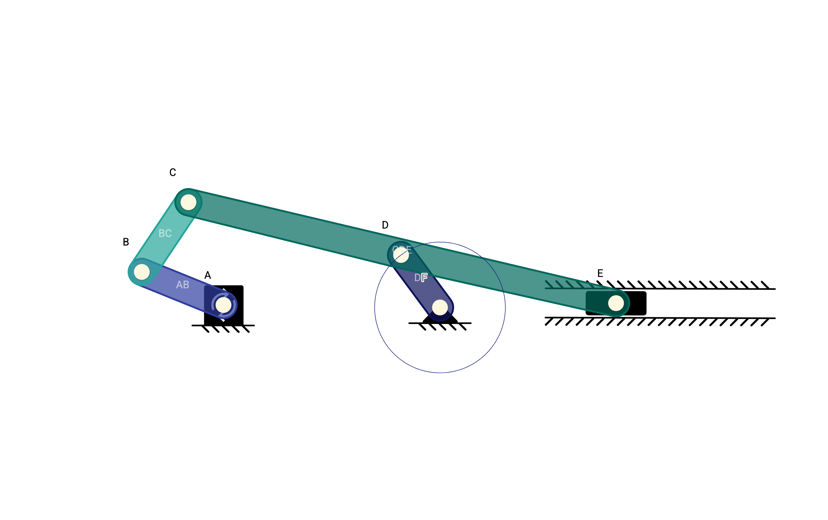
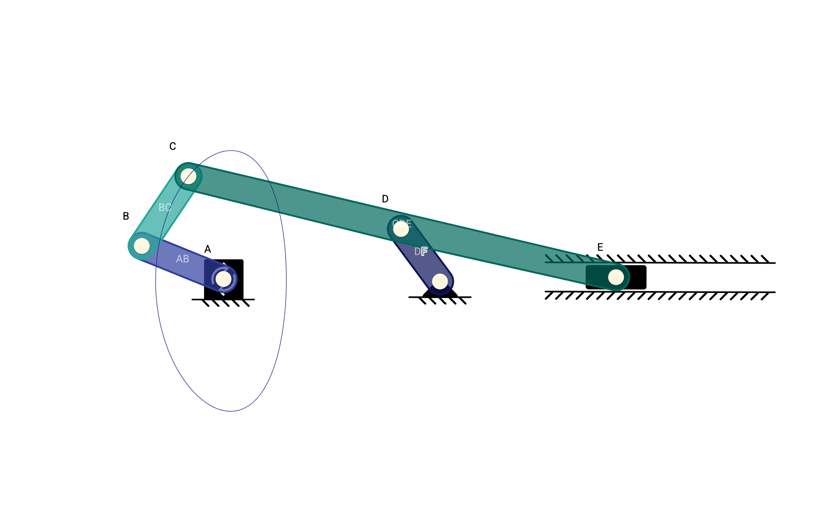
Trace the Elliptical Crank at its coupler point, gray a disabled toggle block, and let a missing Pillow skip the contact sheet
The Elliptical Crank card traced D, a rocker pin that draws a circle about
F; the ellipse the mechanism is named for is C, the coupler's own point.
The fixture's trace flag moves, and the payload, the fixture URLs and the
card art are regenerated from it.

A toggle block told it is disabled looked live: its switch's own disabled
input loses to the reactive form directive driving it. The block grays its
label and switch itself now, and the switch takes no pointer, so "Draw as a
Disc" on a coupler reads as the refusal it is and its reason is what a hover
reaches.

contactSheet threw when no python had Pillow, which failed two suites after
every check passed; it says the sheet was skipped instead. link-holds and
edit-playback carried expectations from before the analysis modes took a
drag and are brought up to date.

Changed region(s): [[0.151, 0.2769, 0.936, 0.6462], [0.2717, 0.7692, 0.3019, 0.8]]

diff --git a/src/app/component/MODALS/templates/template-linkages.ts b/src/app/component/MODALS/templates/template-linkages.ts
@@ -137,7 +137,7 @@ export const TEMPLATE_LINKAGES: Record<TemplateID, string> = {
   Windshield_Wiper:
     '2v.Ay,1E8.A,0.1011.6O,O,0si,0iC,0.0A,A,0se,0Km,0.0B,B,Dl,0S4,0.4P,P,0,0,0.0C,C,AJ,0L3,0.GT,T,0YM,16B,0.0D,D,1e3,0L3,0.4Q,Q,1Tm,0,0.GU,U,xQ,16B,0..YROA,Motor crank,0,0,0sg,0WU,303e9f,O,A,,.YRAB,Drive link,0,0,0KS,0OQ,26A69A,A,B,,.YRBCPT,Wiper arm,0,0,02b,5H,0d125a,B,C,P,T,,.YRCD,Tie rod,0,0,vB,0L3,00695C,C,D,,.YRDQU,Passenger arm,0,0,1Ll,GO,0d125a,D,Q,U,,...N_p*38jjBo',
   Elliptical_Crank:
-    '2v.Ay,1E8.A,0.1011.6A,A,0ix,X,0.0B,B,0zu,7O,0.0C,C,0qC,Lr,0.GD,D,085,Av,0.0E,E,aY,v,0.4F,F,0,0,0.5P,P,aY,v,03..YRAB,AB,0,0,0rQ,3y,303e9f,A,B,,.YRBC,BC,0,0,0v2,Ed,26A69A,B,C,,.YRCDE,CDE,0,0,07x,BD,00695C,C,D,E,,.YRDF,DF,0,0,043,5S,0d125a,D,F,,.YPEP,EP,0,0,0,0,,E,P,,...N_M*3Z168f',
+    '2v.Ay,1E8.A,0.1011.6A,A,0ix,X,0.0B,B,0zu,7O,0.GC,C,0qC,Lr,0.0D,D,085,Av,0.0E,E,aY,v,0.4F,F,0,0,0.5P,P,aY,v,03..YRAB,AB,0,0,0rQ,3y,303e9f,A,B,,.YRBC,BC,0,0,0v2,Ed,26A69A,B,C,,.YRCDE,CDE,0,0,07x,BD,00695C,C,D,E,,.YRDF,DF,0,0,043,5S,0d125a,D,F,,.YPEP,EP,0,0,0,0,,E,P,,...N_M*4J2cwL',
   Jansen_Leg:
     '2v.1jO,1E8.8,0.1011.6O,O,0,0,0.0A,A,3gO,0,0.4G,G,09Hm,01vu,0.0B,B,05tE,7ee,0.0C,C,0IGg,1-F,0.0D,D,06b8,0B7B,0.0E,E,0ETW,06sL,0.GF,F,0AYO,0MPj,0..YROA,OA,0,0,1rC,0,303e9f,O,A,,.YRAB,AB,0,0,016R,3qK,26A69A,A,B,,.YRGBC,GBC,0,0,0B8Z,2ag,0d125a,G,B,C,,.YRAD,AD,0,0,01TO,05Zc,00695C,A,D,,.YRGD,GD,0,0,07xS,06WY,303e9f,G,D,,.YRCE,CE,0,0,0GN5,02RZ,B2DFDB,C,E,,.YRDEF,DEF,0,0,0AXh,0DT4,26A69A,D,E,F,,...N_O*3MdpHm',
   Backhoe_Bucket:

diff --git a/src/test-utils/verification/slot-fixtures.ts b/src/test-utils/verification/slot-fixtures.ts
@@ -880,9 +880,11 @@ export function ellipticalCrankFixture(scale: number = 1): MechanismFixture {
     joints: [
       { id: 'A', ...at(-2.87544, 0.032816), ground: true, input: true },
       { id: 'B', ...at(-3.960199, 0.472074) },
-      { id: 'C', ...at(-3.340474, 1.397268) },
-      // The ellipse the mechanism is named for.
-      { id: 'D', ...at(-0.517497, 0.696942), trace: true },
+      // The ellipse the mechanism is named for: the coupler's own point. D
+      // swings on the rocker D-F and draws a circle about F, which is what
+      // the card showed while the trace sat there.
+      { id: 'C', ...at(-3.340474, 1.397268), trace: true },
+      { id: 'D', ...at(-0.517497, 0.696942) },
       { id: 'E', ...at(2.337757, 0.056553) },
       { id: 'F', ...at(0, 0), ground: true },
     ],

diff --git a/src/app/component/BLOCKS/toggle/toggle.component.scss b/src/app/component/BLOCKS/toggle/toggle.component.scss
@@ -22,6 +22,24 @@
       opacity: 0.5;
     }
 
+    // The switch's own `disabled` input loses to the reactive form directive
+    // driving it, which sets the control's state on top of it, so a caller
+    // that said "disabled" got a switch that looked live and snapped back
+    // when pressed. The block grays itself: the switch and its label at the
+    // Material disabled opacity, and no pointer on the switch, so the
+    // reason -- carried by the wrapper around the block -- is what a hover
+    // reaches.
+    &.toggle-block--disabled {
+      .label {
+        opacity: 0.5;
+      }
+
+      mat-slide-toggle {
+        opacity: 0.38;
+        pointer-events: none;
+      }
+    }
+
     .angle-label {
       display: inline-flex;
       align-items: center;

diff --git a/src/app/component/BLOCKS/toggle/toggle.component.html b/src/app/component/BLOCKS/toggle/toggle.component.html
@@ -1,4 +1,4 @@
-<div id="toggle-block">
+<div id="toggle-block" [class.toggle-block--disabled]="disabled()">
   <div [formGroup]="this.formGroup()" class="row">
     <!-- <input type="checkbox" id="vehicle1" name="vehicle1" value="Bike" [formControlName]="this._formControl" /> -->
     <span class="label"><ng-content></ng-content></span>

diff --git a/docs/fixture-urls.md b/docs/fixture-urls.md
@@ -41,7 +41,7 @@ PMKS_FIXTURE_BASE_URL=https://deploy-preview-NNN--pmksnew.netlify.app npm run fi
 | [Chebyshev straight-line linkage](https://app.pmksplus.com/?2v.Ay,1E8.3,0.1011.6G,G,0VG,0,0.0A,A,0Fe,_W,0.0B,B,Fe,_W,0.GM,M,0,_W,0.4H,H,VG,0,0..YRGB,GB,Fe,Fe,07q,VG,c5cae9,G,B,,.YRABM,ABM,Fe,Fe,0,_W,303e9f,A,B,M,,.YRAH,AH,Fe,Fe,7q,VG,0d125a,A,H,,...N_5*02wJvq) | Approximate straight-line generation: the coupler midpoint runs flat along the top | — | — | `chebyshev-straight-line.spec.ts` |
 | [Windshield wiper](https://app.pmksplus.com/?2v.Ay,1E8.A,0.1011.6O,O,0si,0iC,0.0A,A,0se,0Km,0.0B,B,Dl,0S4,0.4P,P,0,0,0.0C,C,AJ,0L3,0.GT,T,0YM,16B,0.0D,D,1e3,0L3,0.4Q,Q,1Tm,0,0.GU,U,xQ,16B,0..YROA,Motor crank,Fe,Fe,0sg,0WU,c5cae9,O,A,,.YRAB,Drive link,Fe,Fe,0KS,0OQ,303e9f,A,B,,.YRBCPT,Wiper arm,Fe,Fe,02b,5H,0d125a,B,C,P,T,,.YRCD,Tie rod,Fe,Fe,vB,0L3,B2DFDB,C,D,,.YRDQU,Passenger arm,Fe,Fe,1Ll,GO,26A69A,D,Q,U,,...N_z*3LvGeg) | Crank-rocker: continuous rotation into a bounded sweep, against the closed form | — | — | `windshield-wiper.spec.ts` |
 | [Jansen leg](https://app.pmksplus.com/?2v.1jO,1E8.8,0.1011.6O,O,0,0,0.0A,A,3gO,0,0.4G,G,09Hm,01vu,0.0B,B,05tE,7ee,0.0C,C,0IGg,1-F,0.0D,D,06b8,0B7B,0.0E,E,0ETW,06sL,0.GF,F,0AYO,0MPj,0..YROA,OA,Fe,Fe,1rC,0,c5cae9,O,A,,.YRAB,AB,Fe,Fe,016R,3qK,303e9f,A,B,,.YRGBC,GBC,Fe,Fe,0B8Z,2ag,0d125a,G,B,C,,.YRAD,AD,Fe,Fe,01TO,05Zc,B2DFDB,A,D,,.YRGD,GD,Fe,Fe,07xS,06WY,26A69A,G,D,,.YRCE,CE,Fe,Fe,0GN5,02RZ,00695C,C,E,,.YRDEF,DEF,Fe,Fe,0AXh,0DT4,c5cae9,D,E,F,,...N_c*0CMmpt) | One leg of a Strandbeest: eight bars on Jansen's holy numbers, and the foot walks | — | — | `jansen-leg.spec.ts` |
-| [Elliptical crank](https://app.pmksplus.com/?2v.Ay,1E8.A,0.1011.6A,A,0ix,X,0.0B,B,0zu,7O,0.0C,C,0qC,Lr,0.GD,D,085,Av,0.0E,E,aY,v,0.4F,F,0,0,0.5P,P,aY,v,03..YRAB,AB,Fe,Fe,0rQ,3y,c5cae9,A,B,,.YRBC,BC,Fe,Fe,0v2,Ed,303e9f,B,C,,.YRCDE,CDE,Fe,Fe,07x,BD,0d125a,C,D,E,,.YRDF,DF,Fe,Fe,043,5S,B2DFDB,D,F,,.YPEP,EP,0,0,0,0,,E,P,,...N_U*37xmbH) | A six-bar no dyad reaches: the coupler and its guided end have to be solved together | — | — | `elliptical-crank.spec.ts` |
+| [Elliptical crank](https://app.pmksplus.com/?2v.Ay,1E8.A,0.1011.6A,A,0ix,X,0.0B,B,0zu,7O,0.GC,C,0qC,Lr,0.0D,D,085,Av,0.0E,E,aY,v,0.4F,F,0,0,0.5P,P,aY,v,03..YRAB,AB,Fe,Fe,0rQ,3y,c5cae9,A,B,,.YRBC,BC,Fe,Fe,0v2,Ed,303e9f,B,C,,.YRCDE,CDE,Fe,Fe,07x,BD,0d125a,C,D,E,,.YRDF,DF,Fe,Fe,043,5S,B2DFDB,D,F,,.YPEP,EP,0,0,0,0,,E,P,,...N_U*2NtNtv) | A six-bar no dyad reaches: the coupler and its guided end have to be solved together | — | — | `elliptical-crank.spec.ts` |
 | [Inverted slider-crank](https://app.pmksplus.com/?2v.Ay,1E8.5,0.1011.6A,A,0,0,0.0B,B,0,Fe,0.4C,C,ku,0,0.0D,D,0RF,Oj,0.1P,P,0,Fe,0,CD,C,D..YRAB,AB,Fe,Fe,0,7q,c5cae9,A,B,,.YRCD,CD,Fe,Fe,9q,CN,303e9f,C,D,,.YPBP,BP,0,0,0,0,,B,P,,...N_u*0Jrst1) | Inverse slot direction: position, velocity and acceleration against closed form | yes | — | `inverted-slider-crank.spec.ts, slot-kinematics.spec.ts` |
 | [Whitworth proportions](https://app.pmksplus.com/?2v.Ay,1E8.A,0.1011.6A,A,0,0,0.0B,B,0,ku,0.4C,C,Fe,0,0.0D,D,095,1A7,0.1P,P,0,ku,0,CD,C,D..YRAB,AB,Fe,Fe,0,NS,c5cae9,A,B,,.YRCD,CD,Fe,Fe,3H,b4,303e9f,C,D,,.YPBP,BP,0,0,0,0,,B,P,,...N_v*0iMcwI) | Crank longer than the ground offset, so the lever turns instead of rocking | yes | — | `slot-kinematics.spec.ts` |
 | [Inverted slider-crank with a load](https://app.pmksplus.com/?2v.Ay,1E8.5,0.1011.6A,A,0,0,0.0B,B,0,Fe,0.4C,C,ku,0,0.0D,D,0RF,Oj,0.1P,P,0,Fe,0,CD,C,D..YRAB,AB,Fe,Fe,0,7q,c5cae9,A,B,,.YRCD,CD,Fe,Fe,9q,CN,303e9f,C,D,,.YPBP,BP,0,0,0,0,,B,P,,..2F1,CD,F1,0RF,Oj,0RF,95,2SG..N_M*4ZY4rr) | Reactions equal and opposite across the slot, and normal to it | yes | — | `slot-forces.spec.ts` |

diff --git a/docs/tips-and-tricks.md b/docs/tips-and-tricks.md
@@ -1745,3 +1745,41 @@ is kept. Not the jump limit as the retrace test: just past a dead center the two
 about two steps apart, well under 5% of the span, and the first cut reinstated the retrace anyway.
 `piston-driven-wheels.spec.ts` requires a monotone full turn; `linear-actuator-rocker.spec.ts` is
 the rocker that must still retrace; the template baselines pin every cylinder's out-and-back.
+
+### A toggle block's `disabled` input has to gray the block itself
+
+`toggle-block` passes `[disabled]` to its `mat-slide-toggle`, and that loses: the reactive form
+directive driving the switch sets the control's own disabled state on top of the input, so a
+caller that said "disabled" got a switch that looked live and snapped back when pressed --
+"Draw as a Disc" on a coupler was the one a reader noticed. The block now wears
+`.toggle-block--disabled` and grays the label and the switch itself (Material's 0.38, no pointer
+on the switch), so the hover reaches the wrapper that carries the reason. Disabling the form
+*control* instead would drop it from `form.value` for every reader of that form, which is why
+the look is CSS. `e2e/disabled-toggles.mjs` reads the switch's computed opacity on a coupler and
+on a crank.
+
+The same suite holds the Elliptical Crank card's trace on C. It sat on D, whose comment in
+`slot-fixtures.ts` called it the ellipse; D swings on the rocker D-F and draws a circle about F,
+and C, the coupler's own point, draws the ellipse the mechanism is named for. A library template
+is generated from its gallery fixture, so the fix is the fixture's `trace` flag, then
+`npm run template-payloads`, `npm run fixture-urls`, and the card art (`ONLY=Elliptical_Crank`
+through `e2e/template-thumbnails.mjs` and `e2e/template-animations.mjs`).
+
+### A contact sheet needs Pillow, and no python on this machine has it any more
+
+`contactSheet` in `e2e/filmstrip.mjs` tiles a suite's frames through Pillow, and used to throw
+when `python3` had no `PIL` -- which is the state of this machine now, under every interpreter on
+the path -- so `link-holds` and `playback-direction` exited 1 after every check had passed. The
+helper now tries `python3`, `/usr/bin/python3` and Homebrew's in turn and, when none has Pillow,
+prints `contact sheet skipped` and returns; the frames themselves are still in `artifacts/`, and
+a suite's verdict is its checks. `pip3 install pillow` under whichever python you run brings the
+sheets back. Two other suites that stopped short in the same round were stale persistent Chrome
+profiles again (`/tmp/pmks-chrome-undo`, `/tmp/pmks-chrome-attachcyl`): a cdk overlay backdrop
+intercepting every click is the What's New dialog of a profile that remembers an older visit.
+Delete the profile and rerun.
+
+The `link-holds` and `edit-playback` suites also carried expectations from before the analysis
+modes took a drag: a hold's chip stays up in Kinematic Analysis now, because a drag there is held
+exactly as in Edit, and stands down while it plays; and the menu's Grounded row refuses
+restructuring mid-cycle on purpose, so the gate check compares the Locked row and checks that
+refusal by name.
